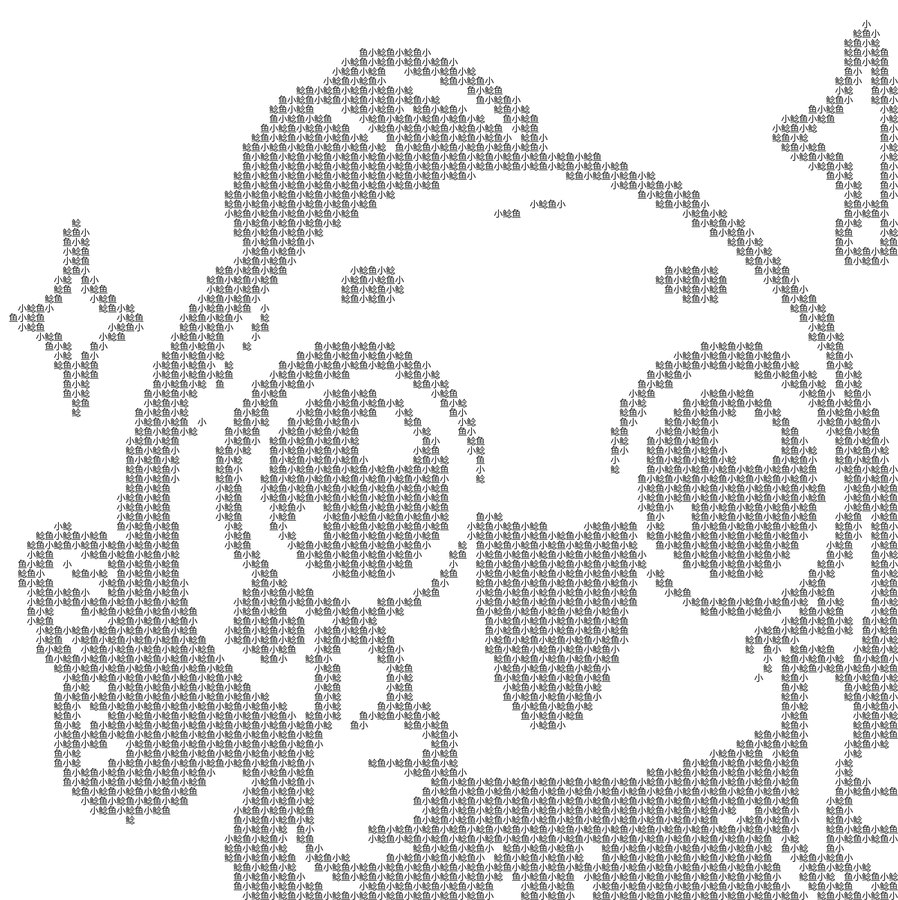
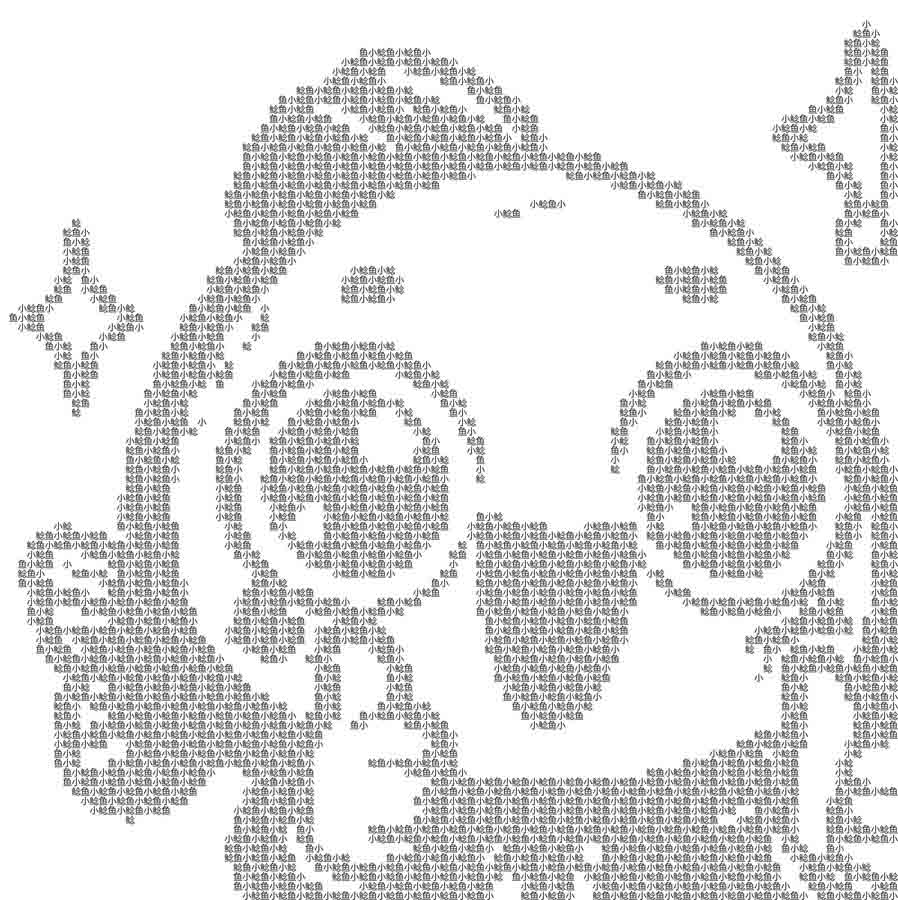
feat(cases): 画廊案例定稿——送朋友替换送自己,全部默认原色渲染
- 送爸爸:亮度 0.9、阈值 145、字号 18,备注「爸爸我爱你」· 感谢你撑起一片天
- 送朋友(friend.jpg 替换小猫):「夯爆了」,阈值 200 + 对比度 1.35 + 亮度 0.95、字号 13
- 送公司:「秒思」木色 · 打印可当木板雕刻稿;末位案例改「更多创意」送自己
- 滑杆数值可点击直接输入(val-edit):回车/失焦提交、Esc 还原、越界收拢对齐步长
- 示例胶囊改为 心形/爸爸/朋友/卡通头像/Logo,移除橘猫、球体及对应素材
- 一句话输入框上方新增「选字建议」;backend/cases.json 参数同步对齐

diff --git a/frontend/index.html b/frontend/index.html
@@ -100,10 +100,9 @@
                 <span class="sample-label">试试示例</span>
                 <button class="chip" type="button" data-sample="heart">心形</button>
                 <button class="chip" type="button" data-sample="father">爸爸</button>
-                <button class="chip" type="button" data-sample="cat">橘猫</button>
+                <button class="chip" type="button" data-sample="friend">朋友</button>
                 <button class="chip" type="button" data-sample="avatar">卡通头像</button>
-                <button class="chip" type="button" data-sample="logo">Logo</button>
-                <button class="chip" type="button" data-sample="sphere">球体</button>
+                <button class="chip" type="button" data-sample="logoWood">Logo</button>
               </div>
             </div>
 
@@ -113,6 +112,7 @@
                 <span class="num" aria-hidden="true">2</span>
                 <b>你想说的话</b>
               </div>
+              <p class="field-hint">选字建议:部分文字有些空、不稠密,需要选平替的字</p>
               <input type="text" id="param-text" placeholder="如:某某我爱你" maxlength="60" aria-label="自定义短语" />
               <p class="field-hint">这句话会平铺成整幅画,空格是留白</p>
             </div>
@@ -149,15 +149,15 @@
             <div class="param-section">
               <h3>排版</h3>
               <div class="slider-row">
-                <div class="slider-label"><span>输出宽度</span><output id="val-cols">100</output></div>
+                <div class="slider-label"><span>输出宽度</span><input class="val-edit" id="val-cols" type="text" inputmode="numeric" value="100" aria-label="输出宽度数值,可直接输入" /></div>
                 <input type="range" id="param-cols" min="40" max="300" step="2" value="100" aria-label="输出宽度(列数)" />
               </div>
               <div class="slider-row">
-                <div class="slider-label"><span>字号大小</span><output id="val-fs">18</output></div>
+                <div class="slider-label"><span>字号大小</span><input class="val-edit" id="val-fs" type="text" inputmode="numeric" value="18" aria-label="字号大小数值,可直接输入" /></div>
                 <input type="range" id="param-fs" min="8" max="36" step="1" value="18" aria-label="字号大小" />
               </div>
               <div class="slider-row">
-                <div class="slider-label"><span>字间距</span><output id="val-ls">0</output></div>
+                <div class="slider-label"><span>字间距</span><input class="val-edit" id="val-ls" type="text" inputmode="numeric" value="0" aria-label="字间距数值,可直接输入" /></div>
                 <input type="range" id="param-ls" min="0" max="16" step="1" value="0" aria-label="字间距" />
               </div>
             </div>
@@ -165,15 +165,15 @@
             <div class="param-section">
               <h3>明暗</h3>
               <div class="slider-row">
-                <div class="slider-label"><span>亮度阈值</span><output id="val-th">128</output></div>
+                <div class="slider-label"><span>亮度阈值</span><input class="val-edit" id="val-th" type="text" inputmode="numeric" value="128" aria-label="亮度阈值数值,可直接输入" /></div>
                 <input type="range" id="param-th" min="1" max="255" step="1" value="128" aria-label="亮度阈值" />
               </div>
               <div class="slider-row">
-                <div class="slider-label"><span>对比度</span><output id="val-ct">1.00</output></div>
+                <div class="slider-label"><span>对比度</span><input class="val-edit" id="val-ct" type="text" inputmode="decimal" value="1.00" aria-label="对比度数值,可直接输入" /></div>
                 <input type="range" id="param-ct" min="0.5" max="2.5" step="0.05" value="1" aria-label="对比度" />
               </div>
               <div class="slider-row">
-                <div class="slider-label"><span>亮度</span><output id="val-br">1.00</output></div>
+                <div class="slider-label"><span>亮度</span><input class="val-edit" id="val-br" type="text" inputmode="decimal" value="1.00" aria-label="亮度数值,可直接输入" /></div>
                 <input type="range" id="param-br" min="0.5" max="2.5" step="0.05" value="1" aria-label="亮度" />
               </div>
               <label class="switch-row"><span>反转前景/背景</span><input type="checkbox" id="param-invert" /><i class="switch" aria-hidden="true"></i></label>
@@ -250,23 +250,23 @@
         </figure>
         <figure class="g-card" data-gallery="father" role="button" tabindex="0" aria-label="载入送爸爸案例:爸爸背影">
           <div class="g-img"><img src="./cases/father.jpg" alt="父子牵手剪影文字画「爸爸我爱你」" loading="lazy" /><span class="g-load">载入这张 →</span></div>
-          <figcaption><b>送爸爸</b><span>「爸爸我爱你」· 你想哪里去了</span></figcaption>
+          <figcaption><b>送爸爸</b><span>「爸爸我爱你」· 感谢你撑起一片天</span></figcaption>
         </figure>
-        <figure class="g-card" data-gallery="cat" role="button" tabindex="0" aria-label="载入送自己案例:橘猫">
-          <div class="g-img"><img src="./cases/cat.jpg" alt="橘猫文字画「陪我五年」" loading="lazy" /><span class="g-load">载入这张 →</span></div>
-          <figcaption><b>送自己</b><span>「陪我五年」· 礼物非要送人吗</span></figcaption>
+        <figure class="g-card" data-gallery="friend" role="button" tabindex="0" aria-label="载入送朋友案例:夯爆了">
+          <div class="g-img"><img src="./cases/friend.jpg" alt="朋友照片文字画「夯爆了」" loading="lazy" /><span class="g-load">载入这张 →</span></div>
+          <figcaption><b>送朋友</b><span>「夯爆了」· 本来想恶搞你的</span></figcaption>
         </figure>
         <figure class="g-card" data-gallery="logoWood" role="button" tabindex="0" aria-label="载入送公司案例:秒思 Logo 木色雕刻版">
           <div class="g-img"><img src="./cases/logo-wood.jpg" alt="秒思 Logo 木色文字画「秒思」" loading="lazy" /><span class="g-load">载入这张 →</span></div>
-          <figcaption><b>送公司</b><span>「秒思」木色 · 打印即可当雕刻稿</span></figcaption>
+          <figcaption><b>送公司</b><span>「秒思」木色 · 打印可当木板雕刻稿</span></figcaption>
         </figure>
         <figure class="g-card" data-gallery="avatar" role="button" tabindex="0" aria-label="载入送同事案例:卡通头像">
           <div class="g-img"><img src="./cases/catfish.jpg" alt="小鲶鱼头像文字画「小鲶鱼」" loading="lazy" /><span class="g-load">载入这张 →</span></div>
           <figcaption><b>送同事</b><span>「小鲶鱼」· 下一张就是你的</span></figcaption>
         </figure>
-        <figure class="g-card" data-gallery="love" role="button" tabindex="0" aria-label="载入压轴案例:WordArt 暗底">
+        <figure class="g-card" data-gallery="love" role="button" tabindex="0" aria-label="载入更多创意案例:WordArt 暗底">
           <div class="g-img"><img src="./cases/love-dark.jpg" alt="WordArt 白字黑底文字画" loading="lazy" /><span class="g-load">载入这张 →</span></div>
-          <figcaption><b>还有谁?</b><span>「WordArt」· 最后一张,送它自己</span></figcaption>
+          <figcaption><b>更多创意</b><span>「WordArt」· 最后一张,送自己</span></figcaption>
         </figure>
       </div>
     </section>

diff --git a/frontend/src/main.js b/frontend/src/main.js
@@ -28,32 +28,38 @@ const MAX_PREVIEW_DIM = 2048
 /** 新图载入后逐行书写动画时长(ms) */
 const FRESH_REVEAL_MS = 1100
 
-/** 一键示例(本地静态图,参数与 backend/cases.json 对齐) */
+/** 一键示例(本地静态图,参数与 backend/cases.json 对齐;画廊案例一律原色渲染) */
 const SAMPLES = {
-  sphere: { file: 'samples/sphere.jpg', text: '某某我爱你', cols: 90, threshold: 110, invert: true },
   heart: { file: 'samples/heart.jpg', text: '某某我爱你', mode: 'color', boldEdges: true },
-  avatar: { file: 'samples/avatar.jpg', text: '小鲶鱼', threshold: 175 },
-  logo: { file: 'samples/logo.jpg', text: '秒思', threshold: 215 },
+  avatar: { file: 'samples/avatar.jpg', text: '小鲶鱼', mode: 'color', threshold: 175 },
   // 故事案例:同一颗心能说给谁听
   father: {
     file: 'samples/father.jpg',
     text: '爸爸我爱你',
+    mode: 'color',
     cols: 100,
+    fontSize: 18,
+    letterSpacing: 0,
     threshold: 145,
+    brightness: 0.9,
     fgColor: '#26221b',
     bgColor: '#fffdf9',
   },
-  cat: {
-    file: 'samples/cat.jpg',
-    text: '陪我五年',
+  friend: {
+    file: 'samples/friend.jpg',
+    text: '夯爆了',
+    mode: 'color',
     cols: 100,
-    threshold: 150,
-    fgColor: '#9c4312',
-    bgColor: '#fff6ea',
+    fontSize: 13,
+    letterSpacing: 0,
+    threshold: 200,
+    contrast: 1.35,
+    brightness: 0.95,
   },
   logoWood: {
     file: 'samples/logo.jpg',
     text: '秒思',
+    mode: 'color',
     cols: 100,
     threshold: 215,
     fgColor: '#33200d',
@@ -62,6 +68,7 @@ const SAMPLES = {
   love: {
     file: 'samples/love.png',
     text: 'WordArt',
+    mode: 'color',
     cols: 110,
     threshold: 120,
     invert: true,
@@ -343,11 +350,13 @@ async function loadSample(key, scrollUp = false) {
       text: s.text,
       mode: s.mode || 'mono',
       cols: s.cols ?? state.params.cols,
+      fontSize: s.fontSize ?? state.params.fontSize,
+      letterSpacing: s.letterSpacing ?? state.params.letterSpacing,
       threshold: s.threshold ?? state.params.threshold,
       invert: s.invert ?? false,
       boldEdges: s.boldEdges ?? false,
-      contrast: 1,
-      brightness: 1,
+      contrast: s.contrast ?? 1,
+      brightness: s.brightness ?? 1,
       bgColor: s.bgColor || '#ffffff',
       fgColor: s.fgColor || '#1a1a1a',
     })
@@ -402,15 +411,48 @@ const syncFns = []
 function bindRange(inputId, key, valId, fmt = (v) => v) {
   const input = $('#' + inputId)
   const out = $('#' + valId)
+  const min = Number(input.min)
+  const max = Number(input.max)
+  const step = Number(input.step) || 1
+
   input.addEventListener('input', () => {
     state.params[key] = Number(input.value)
-    if (out) out.textContent = fmt(input.value)
+    if (out && document.activeElement !== out) out.value = fmt(input.value)
     paintRangeFill(input)
     scheduleRender()
   })
+
+  // 数值框直接输入:回车/失焦提交,非法输入回退当前值,越界收拢到滑杆范围并对齐步长
+  if (out) {
+    const commit = () => {
+      const raw = parseFloat(String(out.value).replace(/[^\d.]/g, ''))
+      let v = Number.isFinite(raw) ? raw : state.params[key]
+      v = Math.min(max, Math.max(min, Math.round(v / step) * step))
+      v = Number(v.toFixed(2))
+      const changed = v !== state.params[key]
+      state.params[key] = v
+      input.value = v
+      out.value = fmt(v)
+      paintRangeFill(input)
+      if (changed) scheduleRender()
+    }
+    out.addEventListener('blur', commit)
+    out.addEventListener('change', commit) // 兜底:个别环境 blur 事件可能不派发,change 与 blur 幂等
+    out.addEventListener('keydown', (e) => {
+      if (e.key === 'Enter') {
+        e.preventDefault()
+        commit() // 直接提交,不依赖程序化 blur 是否派发事件;commit 幂等,重复调用无害
+        out.blur()
+      } else if (e.key === 'Escape') {
+        out.value = fmt(state.params[key]) // 放弃编辑,还原当前值
+        out.blur()
+      }
+    })
+  }
+
   syncFns.push(() => {
     input.value = state.params[key]
-    if (out) out.textContent = fmt(input.value)
+    if (out && document.activeElement !== out) out.value = fmt(input.value)
     paintRangeFill(input)
   })
 }

diff --git a/frontend/src/style.css b/frontend/src/style.css
@@ -760,10 +760,32 @@ input[type="color"] {
   margin-bottom: 4px;
 }
 
-.slider-label output {
-  font-variant-numeric: tabular-nums;
+/* 数值框:滑杆右侧数字可点击直接输入(回车/失焦提交,越界自动收拢) */
+.slider-label .val-edit {
+  width: 54px;
+  padding: 2px 6px;
+  border: 1px solid transparent;
+  border-radius: 6px;
+  background: transparent;
   color: var(--accent);
+  font-family: inherit;
+  font-size: 13px;
   font-weight: 600;
+  line-height: 1.4;
+  text-align: right;
+  font-variant-numeric: tabular-nums;
+  outline: none;
+  cursor: pointer;
+  transition: background 0.15s, border-color 0.15s, box-shadow 0.15s;
+}
+
+.slider-label .val-edit:hover { background: var(--accent-soft); }
+
+.slider-label .val-edit:focus {
+  cursor: text;
+  border-color: var(--accent);
+  background: var(--field-bg);
+  box-shadow: 0 0 0 3px rgba(194, 64, 42, 0.12);
 }
 
 input[type="range"] {
@@ -1454,7 +1476,7 @@ input[type="range"]:focus-visible::-moz-range-thumb { box-shadow: 0 0 0 5px rgba
 
 /* 深底上的小号朱砂文字提亮一档,保住可读对比度 */
 [data-theme="night"] .link-btn,
-[data-theme="night"] .slider-label output,
+[data-theme="night"] .slider-label .val-edit,
 [data-theme="night"] .step i { color: var(--accent-dark); }
 
 [data-theme="night"] .step i { border-color: rgba(229, 107, 82, 0.36); }

diff --git a/AGENTS.md b/AGENTS.md
@@ -36,7 +36,7 @@ WordArt/
 │   ├── cases.json           # 案例配置(9 条)
 │   ├── make_demo_assets.py  # 生成自测演示图(球体/LOVE/心形)
 │   ├── requirements.txt     # pillow / numpy / wordcloud / ascii-magic
-│   ├── assets/demo/         # 输入图:sphere/love/heart.png + 头像.jpg + miaosilogo.jpg + father.jpg + cat.jpg
+│   ├── assets/demo/         # 输入图:sphere/love/heart.png + 头像.jpg + miaosilogo.jpg + father.jpg + friend.jpg
 │   └── output/              # 成品输出(gitignore,不入库)
 │
 └── frontend/                # 浏览器应用(Vite 5 + 原生 JS + Canvas,运行时零框架)
@@ -51,8 +51,8 @@ WordArt/
     │   ├── exporter.js      # 导出:PNG / A4 PDF(jsPDF)/ TXT
     │   └── style.css        # 样式:双主题(纸墨/夜航)+ 响应式(桌面通栏输入 banner / ≤960px 同屏双栏)
     └── public/
-        ├── samples/         # 一键示例图 7 张(球体/心形/头像/logo/love/爸爸背影/橘猫),随 dist 打包
-        ├── cases/           # 画廊案例图 6 张(送恋人/送爸爸/送自己/送公司/送同事/WordArt 暗底),随 dist 打包
+        ├── samples/         # 一键示例图 6 张(心形/头像/logo/love/爸爸背影/朋友),随 dist 打包
+        ├── cases/           # 画廊案例图 6 张(送恋人/送爸爸/送朋友/送公司/送同事/更多创意),随 dist 打包
         └── favicon.svg
 ```
 
@@ -124,7 +124,7 @@ npm run preview                  # 预览 dist;固定端口用 npx vite preview 
 | 文件 | 主要导出 | 说明 |
 |---|---|---|
 | `engine.js` | `DEFAULT_PARAMS`、`computeLayout()`、`paint()`、`buildTextArt()`、`CJK_FONT_STACK` | 渲染引擎,对应 Python 的 engine + sampling;`buildTextArt` 产纯文本供誊抄 |
-| `main.js` | (应用入口,无导出) | `SAMPLES` 七个一键示例(含 logo 阈值 215、avatar 阈值 175,与后端实测参数一致);`PRESETS` 三个参数预设;上传支持点击/拖拽/Ctrl+V 粘贴;参数变动 120ms 防抖重渲染;`state.originalSource` 永存原图,裁剪只改 `state.source` |
+| `main.js` | (应用入口,无导出) | `SAMPLES` 六个一键示例(心形/爸爸/朋友/卡通头像/Logo木色/暗底,画廊案例一律原色渲染,参数与 cases.json 对齐:爸爸 阈值145+亮度0.9、朋友 阈值200+对比度1.35+亮度0.95、avatar 阈值 175、logoWood 阈值 215);`PRESETS` 三个参数预设;上传支持点击/拖拽/Ctrl+V 粘贴;参数变动 120ms 防抖重渲染;滑杆右侧数值可点击直接输入(`bindRange` 的 `.val-edit`,回车/失焦提交、Esc 还原、越界自动收拢到滑杆范围并对齐步长);`state.originalSource` 永存原图,裁剪只改 `state.source` |
 | `cropper.js` | `openCropper({ url, image, rect, onApply })` | 非破坏性裁剪对话框:归一化裁剪框 {x,y,w,h}∈[0,1],8 手柄 + 框内拖动 + 方向键微调(Shift 加速),Pointer Events 单套逻辑通吃鼠标/触屏;AbortController 管会话事件,Esc/遮罩关闭并归还焦点。压暗语义:页面与对话框保持原亮度,`.crop-veil` 只盖图片本身,clip-path 随框挖孔(外圈顺时针+内圈逆时针的 nonzero 多边形),框外变灰框内亮色;框=全图时面积为零不压暗 |
 | `exporter.js` | `exportCanvasPNG()`、`exportCanvasPDF()`、`downloadText()`、`downloadBlob()` | jsPDF 打包进本地产物,无 CDN 依赖;PDF 自动横竖版、居中、12mm 边距 |
 
@@ -159,6 +159,7 @@ npm run preview                  # 预览 dist;固定端口用 npx vite preview 
 | npm 安装权限报错 | Windows 下全局缓存路径无写权限 | `npm install --cache .npm-cache`(项目本地缓存) |
 | `vite preview` 端口异常 | PowerShell 下端口参数被吞 | `npx vite preview --port 4173 --strictPort` 显式指定 |
 | cols 默认值不一致 | 前端 100、RenderParams 100、CLI 110 | 有意为之;cases.json 不写 cols 时走 CLI 默认 110,复现效果时留意 |
+| `vite build` 报 EBUSY | emptyDir 在 `rmdir dist/samples` 时 EBUSY:目录句柄被别的进程持有(编辑器文件监听/杀毒/索引),文件本身能删、只有目录删不掉 | 先用 node 脚本只删 dist 内所有文件(`fs.rmSync(force)`,保留目录壳),再 `npx vite build --emptyOutDir=false` 全新写入;残留的旧文件(sphere/橘猫等)顺带清干净 |
 
 ## Git 约定
 
@@ -182,12 +183,14 @@ npm run preview                  # 预览 dist;固定端口用 npx vite preview 
 
 ## 当前状态与待办
 
-截至 2026-08-29 的进度:
+截至 2026-08-29 深夜的进度:
 
-- 后端三条管线可用;`cases.json` 6 条案例(sphere / love_dark / heart_color / sphere_ascii / 小鲶鱼头像 / team_cloud)全部生成成功;秒思 logo 经 CLI 手动实测(阈值 215)效果确认
-- 前端上传、参数面板、实时渲染、四类导出(PNG / 2x / A4 PDF / TXT + 复制)浏览器实测通过,网络面板确认零上传;`dist/` 构建成功(主体为按需加载的字体分包);画廊定为 6 案故事卡「这份礼物,送给谁?」(送恋人 / 送爸爸 / 送自己 / 送公司 / 送同事 / WordArt 暗底),离线词云案例已移除;字体自托管完成(思源宋体 + 霞鹜文楷),案例图与示例图全部同源随包,不外链 COS;已部署 https://muse-wordart.pages.dev/ 并手机实测通过
-- 裁剪小工具上线(选图建议的可执行版):图片框右上角「裁剪」胶囊常驻,打开对话框后 8 手柄拖拽收近主体;非破坏性——原图与裁剪框分别存在 `originalSource`/`cropRect`,可反复重裁、可还原全图;裁剪在本地 Canvas 截取,零上传红线不受影响;压暗只作用于图片本身(veil 挖孔方案),页面与对话框保持原亮度,桌面浏览器实测通过
-- 响应式布局重排(桌面 + 手机同一套叙事):桌面「创作输入」升为壹贰叁正下方的通栏 banner(`.col-input { display: contents }` 拆平分列,`.input-card` 跨 `grid-column: 1 / -1`),内部三层纵向堆叠——抬头 / 照片 / 一句话各自横向铺满,宽屏只放大呼吸感与一句话字号(17.5px),不改变层叠结构;手机(≤960px)改为输入通栏置顶 + 下方左「微调」右「成品」双栏同屏,成品卡 `sticky` 吸顶常驻,拖滑杆每刻结果都在眼前,不再上下来回滚动;614px 平板与 390px 手机、纸墨/夜航双主题均实测通过,控制台零报错
-- 展示策略:不做 PPT,周日下午 5 分钟按目标用户矩阵现场活演示(恋人合影+姓名 / 吉祥物+全员姓名 / 人物+语录 / 送礼 / 闲鱼变现 / 评委看现场跑产品),画廊 6 卡即讲述主线;案例图到此为止,不再新增
+- 后端三条管线可用;`cases.json` 9 条案例(demo_sphere / demo_love_dark / demo_heart_color / demo_sphere_ascii / 小鲶鱼头像 / 爸爸背影 / 朋友恶搞 / 秒思雕刻版 / demo_team_cloud)全部与前端 `SAMPLES` 参数对齐,故事案例一律 `color_mode: color`(爸爸:cols100+字号18+阈值145+亮度0.9;朋友:cols100+字号13+阈值200+对比度1.35+亮度0.95;秒思雕刻版:阈值215+木色前景/背景)
+- 前端上传、参数面板、实时渲染、四类导出(PNG / 2x / A4 PDF / TXT + 复制)浏览器实测通过,网络面板确认零上传;画廊 6 案故事卡「这份礼物,送给谁?」定稿:送恋人「某某我爱你」/ 送爸爸「爸爸我爱你」· 感谢你撑起一片天 / 送朋友「夯爆了」· 本来想恶搞你的 / 送公司「秒思」木色 · 打印可当木板雕刻稿 / 送同事「小鲶鱼」/ 更多创意「WordArt」· 最后一张,送自己;画廊与示例胶囊全部默认原色渲染,点击即载入全部参数;字体自托管完成(思源宋体 + 霞鹜文楷),案例图与示例图全部同源随包,不外链 COS;已部署 https://muse-wordart.pages.dev/
+- 滑杆数值可直接输入:六个滑杆(输出宽度/字号/字间距/阈值/对比度/亮度)右侧数字为 `.val-edit` 输入框,点击输入、回车或失焦提交、Esc 还原,非法输入回退当前值,越界收拢到滑杆范围并对齐步长;提交幂等(Enter 直接 commit + blur 兜底,不依赖程序化 blur 是否派发事件)
+- 输入卡文案:照片上方「选图建议」保留,一句话输入框上方新增「选字建议:部分文字有些空、不稠密,需要选平替的字」;示例胶囊定为 心形/爸爸/朋友/卡通头像/Logo 五枚(橘猫、球体已删,素材同步移除)
+- 裁剪小工具上线(选图建议的可执行版):图片框右上角「裁剪」胶囊常驻,打开对话框后 8 手柄拖拽收近主体;非破坏性——原图与裁剪框分别存在 `originalSource`/`cropRect`,可反复重裁、可还原全图;裁剪在本地 Canvas 截取,零上传红线不受影响;压暗只作用于图片本身(veil 挖孔方案),页面与对话框保持原亮度
+- 响应式布局重排(桌面 + 手机同一套叙事):桌面「创作输入」升为壹贰叁正下方的通栏 banner(`.col-input { display: contents }` 拆平分列,`.input-card` 跨 `grid-column: 1 / -1`);手机(≤960px)改为输入通栏置顶 + 下方左「微调」右「成品」双栏同屏,成品卡 `sticky` 吸顶常驻;614px 平板与 390px 手机、纸墨/夜航双主题均实测通过,控制台零报错
+- 展示策略:不做 PPT,周日下午 5 分钟按目标用户矩阵现场活演示,画廊 6 卡即讲述主线(送朋友是压轴互动位:现场给评委的朋友做一张);案例图到此为止,不再新增
 - spec.md 对照:F1-F5、F8(复制纯文本)、F9(互动实时重渲染)已落地;F7 未按"预设字符集"实现,改为参数预设(照片标准 / 白底卡通 / 暗底夜景)+ 一键示例;F6 部署已完成
-- 待办:把最新 dist(响应式布局版:桌面通栏 banner + 手机同屏双栏)重新部署到 Cloudflare Pages、周日现场活演示排练、赛后 09-01 仓库工程化整理
+- 待办:把最新 dist(案例原色版 + 可输入数值 + 选字建议)重新部署到 Cloudflare Pages、周日现场活演示排练、赛后 09-01 仓库工程化整理

diff --git a/frontend/README.md b/frontend/README.md
@@ -20,11 +20,12 @@ npm run preview    # 本地预览 dist
 
 | 功能 | 说明 |
 | --- | --- |
-| 图片输入 | 点击选择 / 拖拽 / `Ctrl+V` 粘贴截图 |
-| 一键示例 | 球体、心形、卡通头像、Logo 四个内置样图 |
+| 图片输入 | 点击选择 / 拖拽 / `Ctrl+V` 粘贴截图;右上角「裁剪」可非破坏性收近主体 |
+| 一键示例 | 心形、爸爸、朋友、卡通头像、Logo 五个内置样图,点击载入图片 + 全部参数 |
 | 实时渲染 | 所有参数拖动即重绘(典型 100 列 < 100ms) |
-| 渲染模式 | 单色(自选前景/背景色)/ 原色(按原图着色,自动保可读性) |
-| 明暗控制 | 亮度阈值、对比度、亮度、反转、加粗边缘 |
+| 渲染模式 | 单色(自选前景/背景色)/ 原色(按原图着色,自动保可读性);案例一律原色 |
+| 明暗控制 | 亮度阈值、对比度、亮度、反转、加粗边缘;滑杆数值可点击直接输入(回车/失焦提交,越界自动收拢) |
+| 输入建议 | 照片上方「选图建议」,一句话输入框上方「选字建议」 |
 | 预设 | 照片标准 / 白底卡通·Logo / 暗底·夜景 |
 | 导出 | PNG 1x、PNG 2x(矢量级放大不发糊)、A4 单页 PDF(自动横竖版,打印即礼物)、TXT(纯文本,可誊抄) |
 
@@ -52,8 +53,8 @@ frontend/
 │   ├── main.js         # 应用逻辑:上传/参数绑定/示例/预设/交互
 │   └── style.css       # 样式
 └── public/
-    ├── samples/        # 一键示例图(与 backend demo 参数一致)
-    ├── cases/          # 案例画廊图(词云等离线管线产物)
+    ├── samples/        # 一键示例图(与 backend/cases.json 参数一致)
+    ├── cases/          # 案例画廊图(送恋人/送爸爸/送朋友/送公司/送同事/更多创意)
     └── favicon.svg
 ```
 
